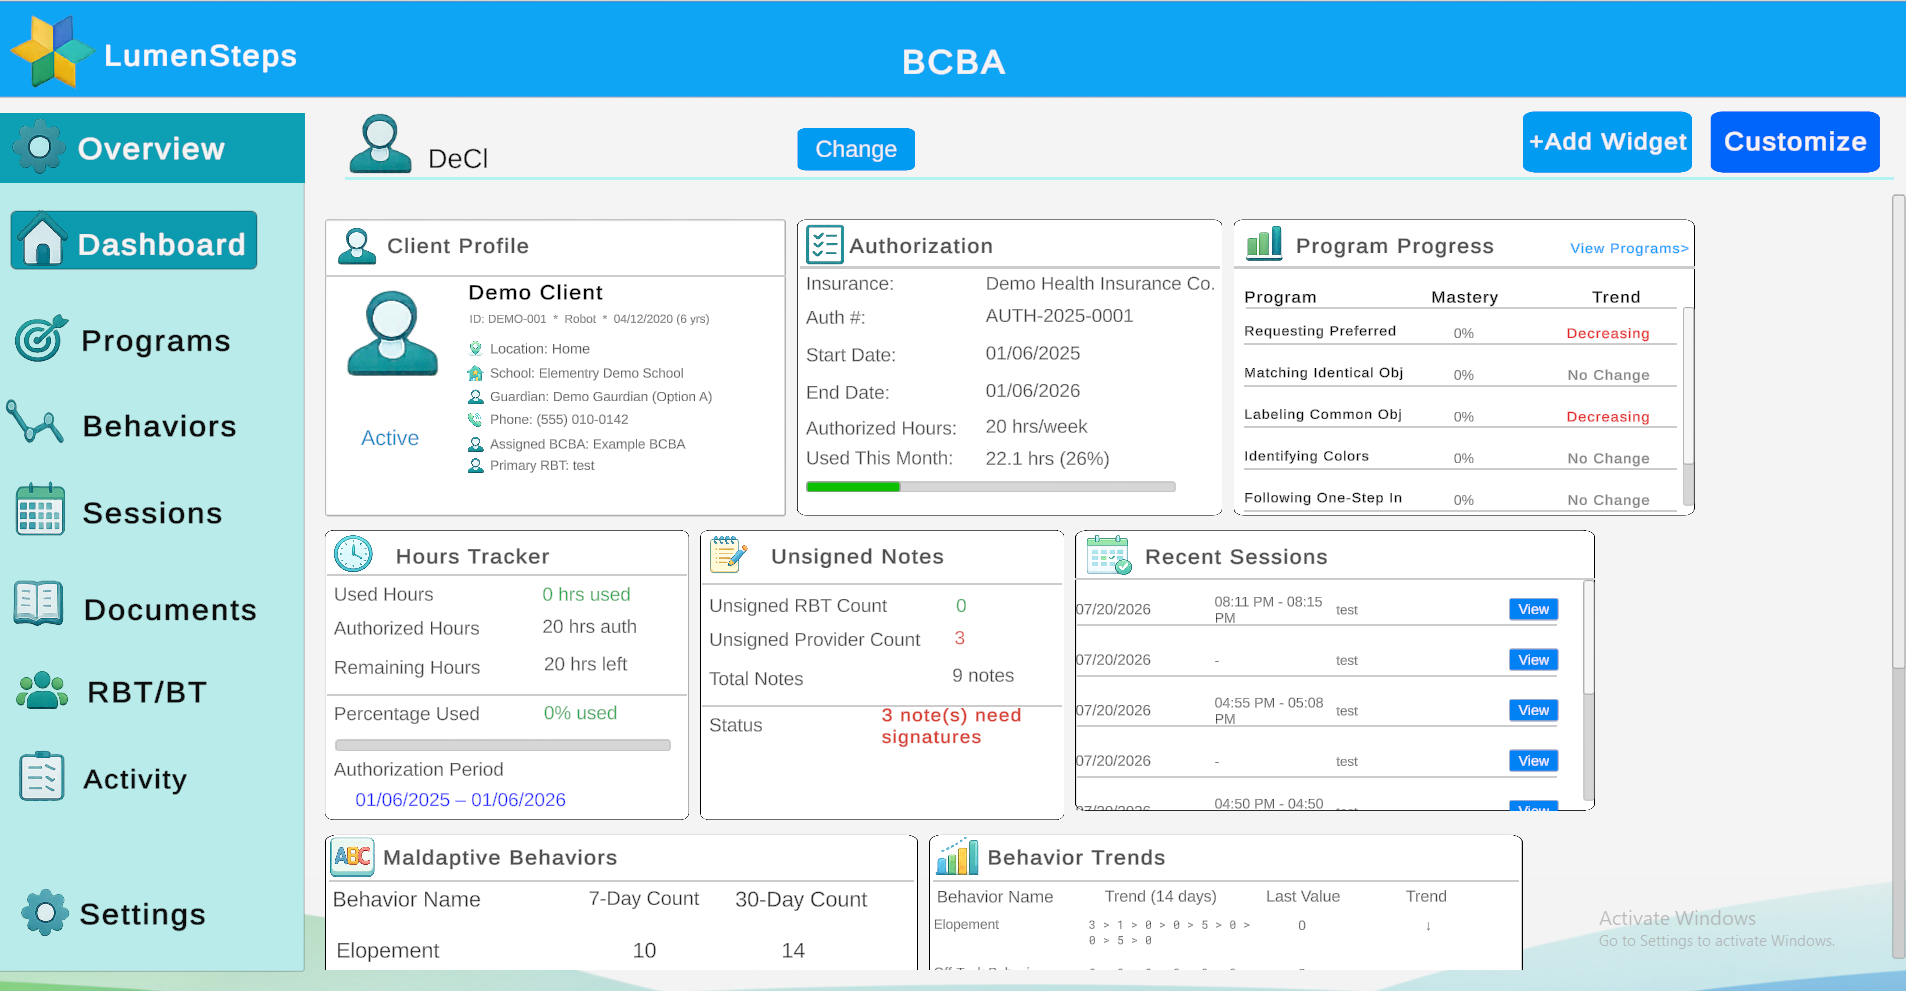
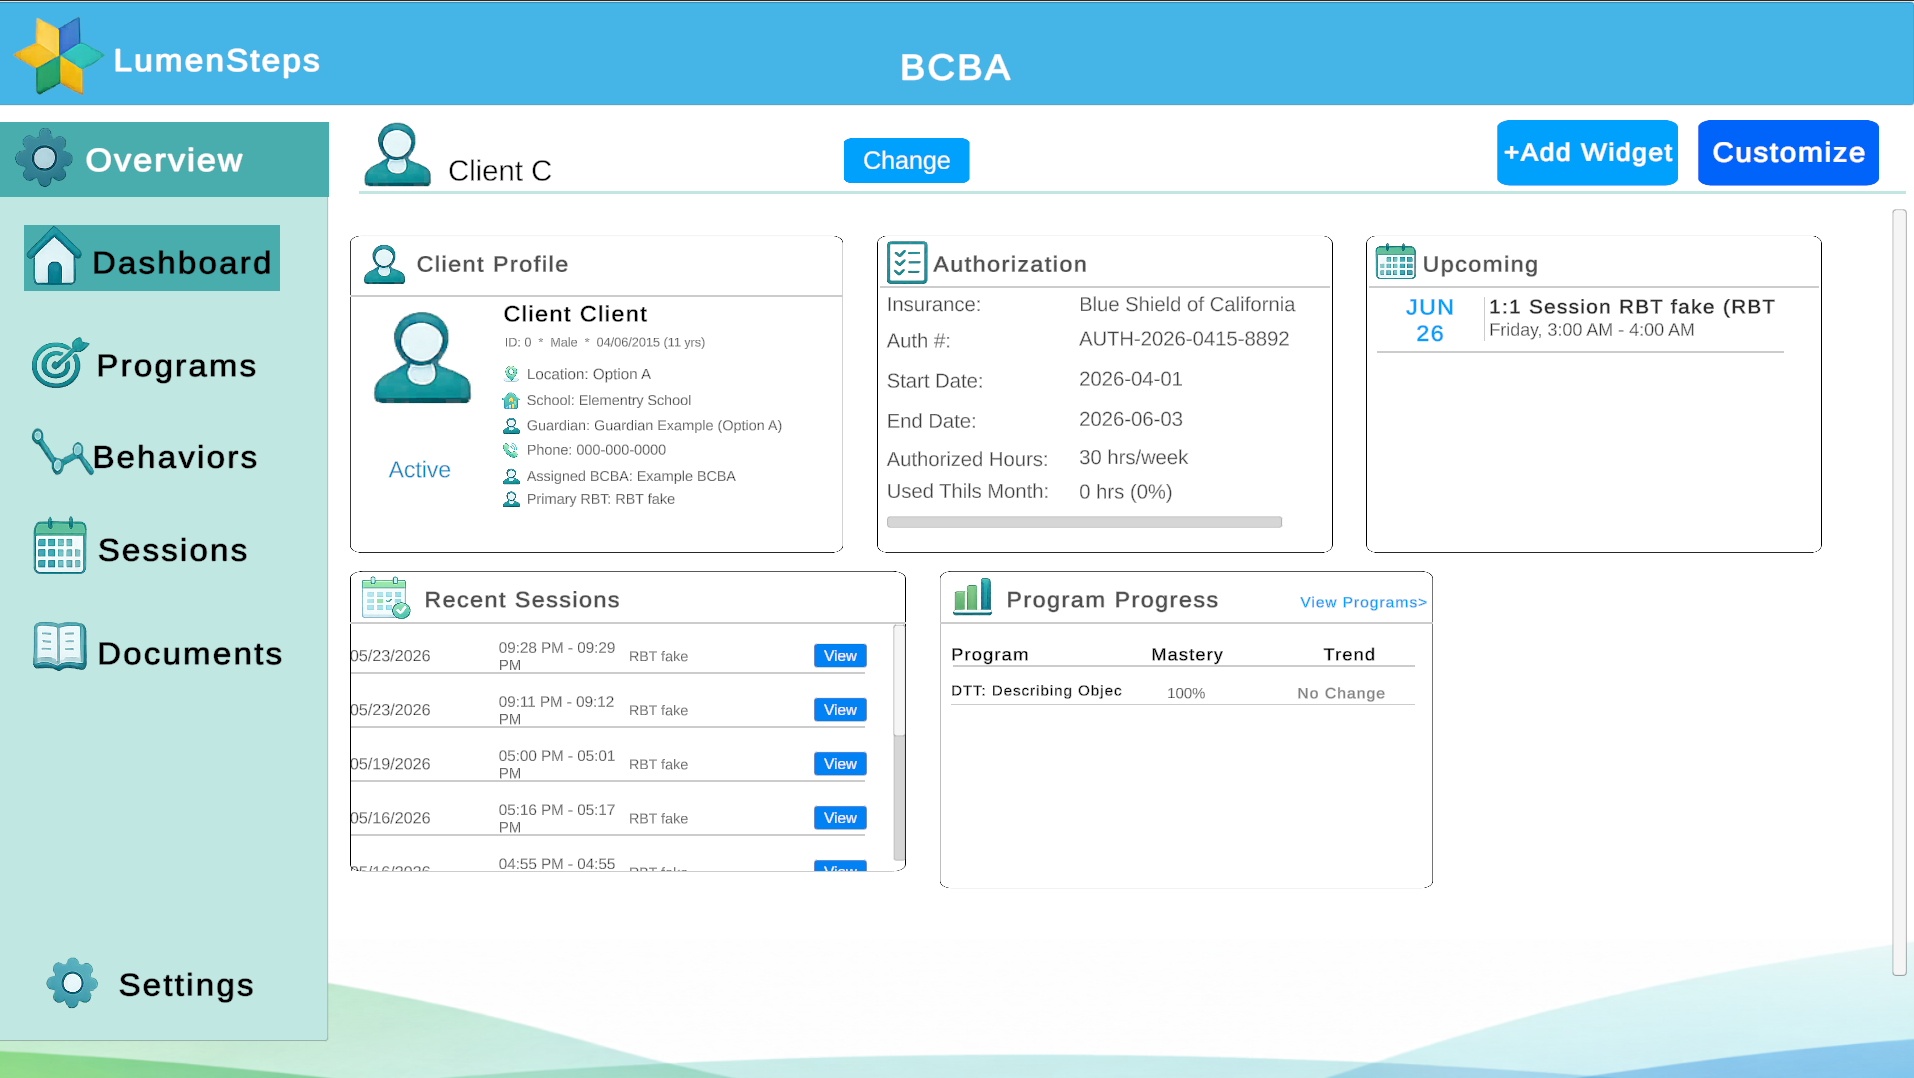
Add files via upload

diff --git a/screenshots.html b/screenshots.html
@@ -337,6 +337,8 @@
   <button class="filter-btn" data-filter="sessions">Sessions</button>
   <button class="filter-btn" data-filter="documents">Documents</button>
   <button class="filter-btn" data-filter="dashboard">Dashboard</button>
+  <button class="filter-btn" data-filter="toolbox">Toolbox</button>
+  <button class="filter-btn" data-filter="billing">Billing</button>
 </div>
 
 <!-- GALLERY -->
@@ -426,6 +428,34 @@
     </div>
   </div>
 
+  <!-- 7 -->
+  <div class="gallery-item" data-category="toolbox" data-index="6" onclick="openLightbox(6)">
+    <img class="gallery-thumb" src="screenshot-toolbox.png" alt="RBT Toolbox" onerror="this.style.display='none';this.nextElementSibling.style.display='flex'">
+    <div class="thumb-placeholder" style="display:none">
+      <svg viewBox="0 0 24 24" fill="none" stroke="currentColor" stroke-width="1.5"><rect x="3" y="3" width="18" height="18" rx="2"/><path d="M3 9h18M9 21V9"/></svg>
+      <span>screenshot-toolbox.png</span>
+    </div>
+    <div class="gallery-info">
+      <p class="gallery-tag">Toolbox</p>
+      <h3>RBT Session Toolbox</h3>
+      <p>Token boards, timers, break cards, and more — built-in tools RBTs can pull up mid-session.</p>
+    </div>
+  </div>
+
+  <!-- 8 -->
+  <div class="gallery-item" data-category="billing" data-index="7" onclick="openLightbox(7)">
+    <img class="gallery-thumb" src="screenshot-activity.png" alt="BCBA Activity Log" onerror="this.style.display='none';this.nextElementSibling.style.display='flex'">
+    <div class="thumb-placeholder" style="display:none">
+      <svg viewBox="0 0 24 24" fill="none" stroke="currentColor" stroke-width="1.5"><path d="M22 19a2 2 0 0 1-2 2H4a2 2 0 0 1-2-2V5a2 2 0 0 1 2-2h5l2 3h9a2 2 0 0 1 2 2z"/></svg>
+      <span>screenshot-activity.png</span>
+    </div>
+    <div class="gallery-info">
+      <p class="gallery-tag">Billing</p>
+      <h3>BCBA Activity Log</h3>
+      <p>Log billable services with date, duration, and status, then export a signed timesheet.</p>
+    </div>
+  </div>
+
 </div>
 
 <!-- LIGHTBOX -->
@@ -501,6 +531,8 @@
     { src: 'screenshot-behaviors.png', tag: 'Behaviors', name: 'Behavior Tracking',   desc: 'Log frequency, duration, and ABC data with real-time counters and timers.' },
     { src: 'screenshot-documents.png', tag: 'Documents', name: 'Document Library',    desc: 'Store assessments, BIPs, reports, and more — organized and accessible in seconds.' },
     { src: 'screenshot-dashboard.png', tag: 'Dashboard', name: 'Client Dashboard',    desc: 'A full overview of your caseload — widgets, metrics, and quick access to everything.' },
+    { src: 'screenshot-toolbox.png',   tag: 'Toolbox',   name: 'RBT Session Toolbox', desc: 'Token boards, timers, break cards, and more — built-in tools RBTs can pull up mid-session.' },
+    { src: 'screenshot-activity.png',  tag: 'Billing',   name: 'BCBA Activity Log',   desc: 'Log billable services with date, duration, and status, then export a signed timesheet.' },
   ];
 
   let visibleIndexes = screenshots.map((_, i) => i);
